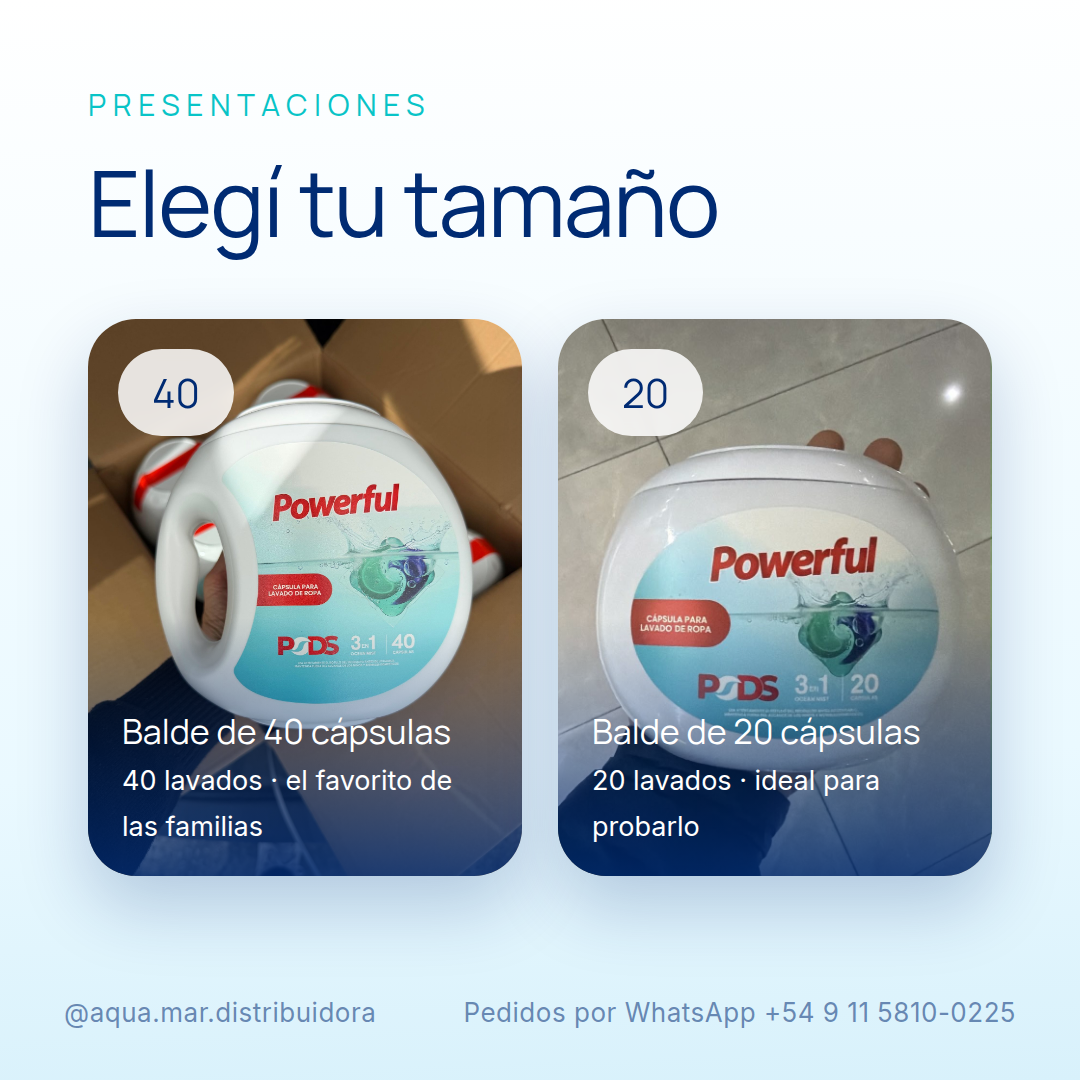
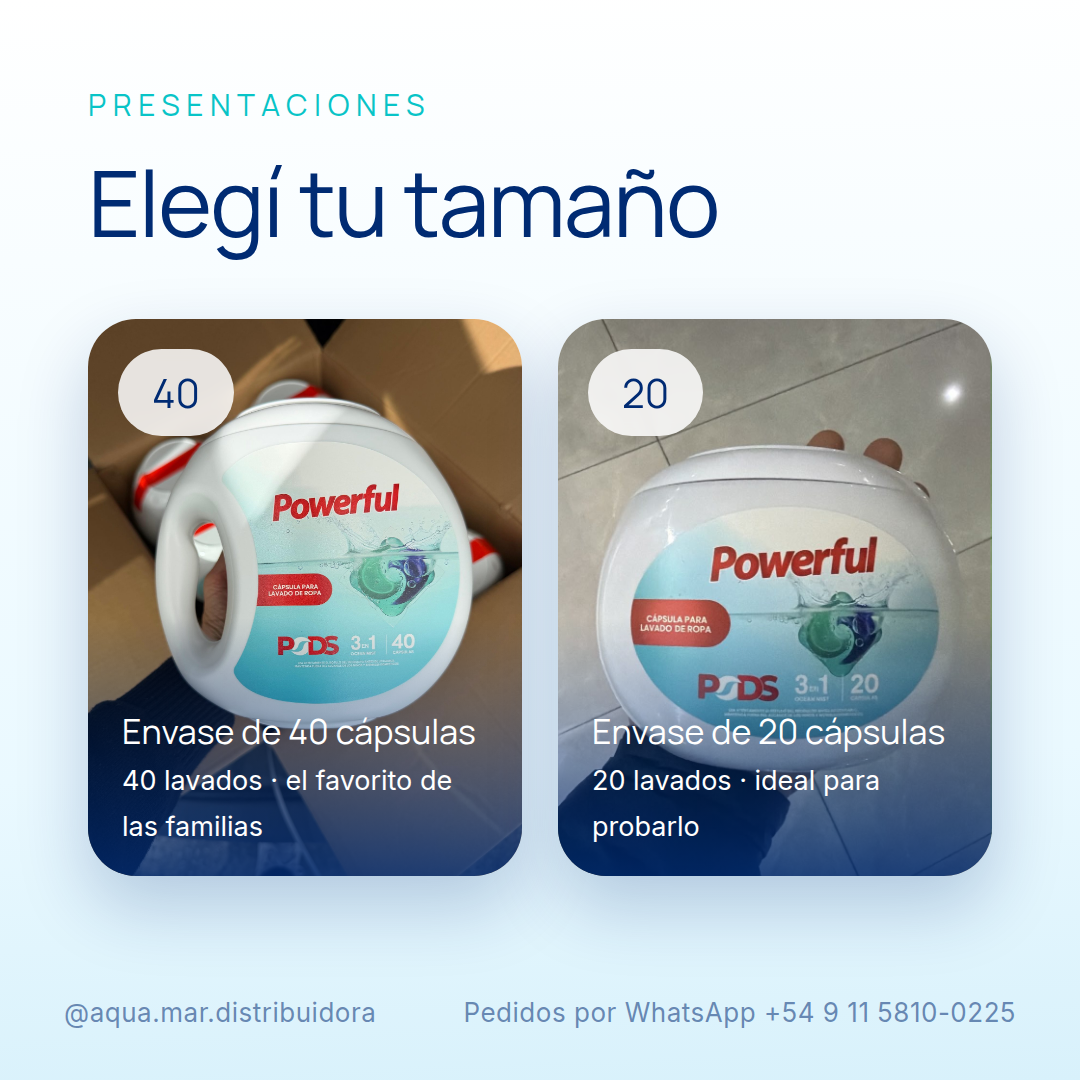
Kit de Instagram: envase en vez de balde en placas, captions y bio
Claude-Session: https://claude.ai/code/session_01LKQ2LyLnGzMFTQbHuEzGG7

Changed region(s): [[0.55, 0.6417, 0.8861, 0.7028], [0.1222, 0.6722, 0.4583, 0.7028]]

diff --git a/aqua-mar/social/instagram/plantillas/ig-stories.html b/aqua-mar/social/instagram/plantillas/ig-stories.html
@@ -3,8 +3,7 @@
 <head>
 <meta charset="UTF-8">
 <style>
-  @font-face { font-family: 'Manrope'; src: url('manrope.ttf'); font-weight: 200 800; }
-  @font-face { font-family: 'Inter'; src: url('inter.ttf'); font-weight: 100 900; }
+  @import url('https://fonts.googleapis.com/css2?family=Manrope:wght@400..800&family=Inter:wght@400..700&display=swap');
   :root{ --brand:#004EA8; --deep:#002B73; --mar:#08C4C7; --ice:#EAF9FF; --sun:#FDB813; }
   *{margin:0;padding:0;box-sizing:border-box}
   body{background:#333;font-family:'Manrope','Inter',sans-serif;display:grid;gap:40px;padding:40px;justify-content:center}
@@ -89,7 +88,7 @@
   <span class="bubble" style="left:9%;top:14%;width:38px;height:38px;opacity:.5"></span>
   <span class="bubble" style="right:12%;top:24%;width:26px;height:26px;opacity:.4"></span>
   <span class="bubble" style="left:18%;bottom:20%;width:30px;height:30px;opacity:.4"></span>
-  <img class="logo" src="logo-aqua-mar.jpg" alt="">
+  <img class="logo" src="../../../public/img/logo-aqua-mar.jpg" alt="">
   <h1>AQUA MAR</h1>
   <div class="sub">Distribuidora Oficial Powerful</div>
   <div class="zona">Zona Oeste · Envíos a toda Argentina</div>
@@ -101,7 +100,7 @@
   <div class="kicker">Powerful 3 en 1</div>
   <h1 style="font-size:96px;margin-top:20px">Una cápsula.<br><span style="color:var(--brand)">Y listo.</span></h1>
   <div class="foto" style="margin-top:56px;height:760px">
-    <img src="powerful-capsulas.jpg" style="object-position:50% 32%" alt="">
+    <img src="../../../public/img/powerful-capsulas.jpg" style="object-position:50% 32%" alt="">
   </div>
   <div class="chips">
     <span class="chip">Jabón</span>
@@ -118,7 +117,7 @@
   <div class="n">1</div>
   <h1>Colocá<br>la cápsula</h1>
   <p>Directo en el fondo del tambor, antes que la ropa. Con las manos secas.</p>
-  <div class="foto"><img src="powerful-capsulas.jpg" style="object-position:50% 30%" alt=""></div>
+  <div class="foto"><img src="../../../public/img/powerful-capsulas.jpg" style="object-position:50% 30%" alt=""></div>
   <div class="handle" style="opacity:.5">@aqua.mar.distribuidora</div>
 </div>
 
@@ -127,7 +126,7 @@
   <div class="n">2</div>
   <h1>Agregá<br>la ropa</h1>
   <p>Cargá el lavarropas como siempre. La cápsula trabaja igual con blanca o de color.</p>
-  <div class="foto"><img src="powerful-40-capsulas.jpg" style="object-position:50% 40%" alt=""></div>
+  <div class="foto"><img src="../../../public/img/powerful-40-capsulas.jpg" style="object-position:50% 40%" alt=""></div>
   <div class="handle" style="opacity:.5">@aqua.mar.distribuidora</div>
 </div>
 
@@ -136,7 +135,7 @@
   <div class="n">3</div>
   <h1>Iniciá<br>el lavado</h1>
   <p>Se disuelve sola, en frío o en caliente. Seguí siempre las instrucciones del envase.</p>
-  <div class="foto"><img src="powerful-20-capsulas.jpg" style="object-position:50% 58%" alt=""></div>
+  <div class="foto"><img src="../../../public/img/powerful-20-capsulas.jpg" style="object-position:50% 58%" alt=""></div>
   <div class="handle" style="opacity:.5">@aqua.mar.distribuidora</div>
 </div>
 
@@ -146,12 +145,12 @@
   <h1 style="margin-top:20px">¿40 o 20?</h1>
   <div class="cards">
     <div class="card">
-      <img src="powerful-40-capsulas.jpg" style="object-position:50% 42%" alt="">
+      <img src="../../../public/img/powerful-40-capsulas.jpg" style="object-position:50% 42%" alt="">
       <div class="tagnum">40</div>
       <div class="base">40 lavados · el favorito de las familias</div>
     </div>
     <div class="card">
-      <img src="powerful-20-capsulas.jpg" style="object-position:50% 58%" alt="">
+      <img src="../../../public/img/powerful-20-capsulas.jpg" style="object-position:50% 58%" alt="">
       <div class="tagnum">20</div>
       <div class="base">20 lavados · ideal para probarlo</div>
     </div>
@@ -193,9 +192,9 @@
 
 <!-- S9 · Mayoristas (destacado Mayoristas) -->
 <div class="story dark" id="s9">
-  <div class="foto"><img src="powerful-caja-mayorista.jpg" alt=""></div>
+  <div class="foto"><img src="../../../public/img/powerful-caja-mayorista.jpg" alt=""></div>
   <h1>¿Tenés un <em>comercio</em>?</h1>
-  <p>Caja cerrada de 8 baldes, precintada de fábrica. El precio mejora con el volumen.</p>
+  <p>Caja cerrada de 8 envases, precintada de fábrica. El precio mejora con el volumen.</p>
   <div class="cta">Pedí precio mayorista</div>
   <div class="handle">@aqua.mar.distribuidora</div>
 </div>

diff --git a/aqua-mar/social/instagram/plantillas/ig-assets.html b/aqua-mar/social/instagram/plantillas/ig-assets.html
@@ -169,12 +169,12 @@
     <div class="card">
       <img src="../../../public/img/powerful-40-capsulas.jpg" style="object-position:50% 42%" alt="">
       <div class="num">40</div>
-      <div class="base">Balde de 40 cápsulas<br><span style="font-weight:600;font-size:27px;font-family:'Inter'">40 lavados · el favorito de las familias</span></div>
+      <div class="base">Envase de 40 cápsulas<br><span style="font-weight:600;font-size:27px;font-family:'Inter'">40 lavados · el favorito de las familias</span></div>
     </div>
     <div class="card">
       <img src="../../../public/img/powerful-20-capsulas.jpg" style="object-position:50% 58%" alt="">
       <div class="num">20</div>
-      <div class="base">Balde de 20 cápsulas<br><span style="font-weight:600;font-size:27px;font-family:'Inter'">20 lavados · ideal para probarlo</span></div>
+      <div class="base">Envase de 20 cápsulas<br><span style="font-weight:600;font-size:27px;font-family:'Inter'">20 lavados · ideal para probarlo</span></div>
     </div>
   </div>
   <div class="footerbar" style="color:rgba(0,43,115,.55)">
@@ -213,7 +213,7 @@
   <h1>¿Querés vender <em>Powerful</em>?</h1>
   <div style="display:flex;align-items:center;gap:40px">
     <div class="cta">Escribinos por WhatsApp</div>
-    <div style="font-family:'Inter';font-size:30px;color:rgba(255,255,255,.75)">Caja cerrada de 8 baldes<br>Precio escalonado por volumen</div>
+    <div style="font-family:'Inter';font-size:30px;color:rgba(255,255,255,.75)">Caja cerrada de 8 envases<br>Precio escalonado por volumen</div>
   </div>
 </div>
 

diff --git a/aqua-mar/social/instagram/guia-instagram.md b/aqua-mar/social/instagram/guia-instagram.md
@@ -20,7 +20,7 @@ para subir: foto de perfil, 5 portadas de destacados y 5 placas de feed en
 
 ```
 Distribuidora oficial Powerful 💧
-Cápsulas 3 en 1 · baldes de 20 y 40
+Cápsulas 3 en 1 · envases de 20 y 40
 Zona Oeste · envíos a todo el país
 Minorista y mayorista
 📲 Pedidos por WhatsApp 👇
@@ -58,7 +58,7 @@ Minorista y mayorista
 
 **Post 3 — `post-3-elegi-tu-tamano.png`**
 
-> ¿40 o 20? El balde de 40 es el que más sale: 40 lavados, a cápsula por día
+> ¿40 o 20? El envase de 40 es el que más sale: 40 lavados, a cápsula por día
 > te dura más de un mes. El de 20 va perfecto si querés probarlo o si en casa
 > son pocos.
 > Escribinos por WhatsApp y te lo acercamos: Zona Oeste con entrega nuestra,
@@ -68,13 +68,13 @@ Minorista y mayorista
 
 > Así de corto: cápsula al fondo del tambor, ropa arriba, arrancás el lavado.
 > Se disuelve sola, en frío o en caliente.
-> Guardá este post para cuando llegue tu primer balde. Y seguí siempre las
+> Guardá este post para cuando llegue tu primer envase. Y seguí siempre las
 > instrucciones del envase.
 
 **Post 5 — `post-5-mayoristas.png`**
 
 > Si tenés almacén, perfumería, tienda de limpieza o vendés por tu cuenta:
-> la caja cerrada trae 8 baldes precintados de fábrica y el precio mejora
+> la caja cerrada trae 8 envases precintados de fábrica y el precio mejora
 > con el volumen.
 > Mandanos un WhatsApp con tu zona y te pasamos la lista vigente.
 
